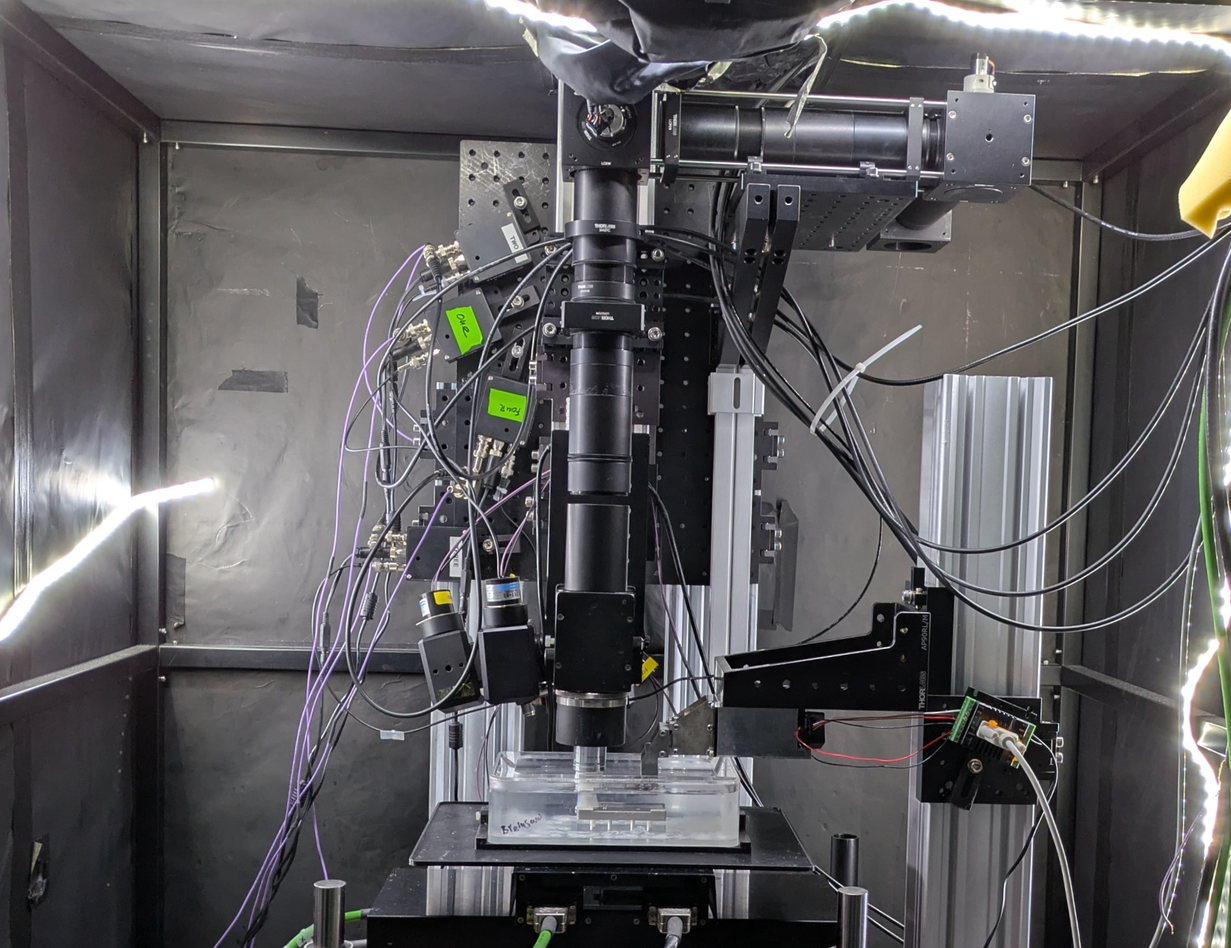
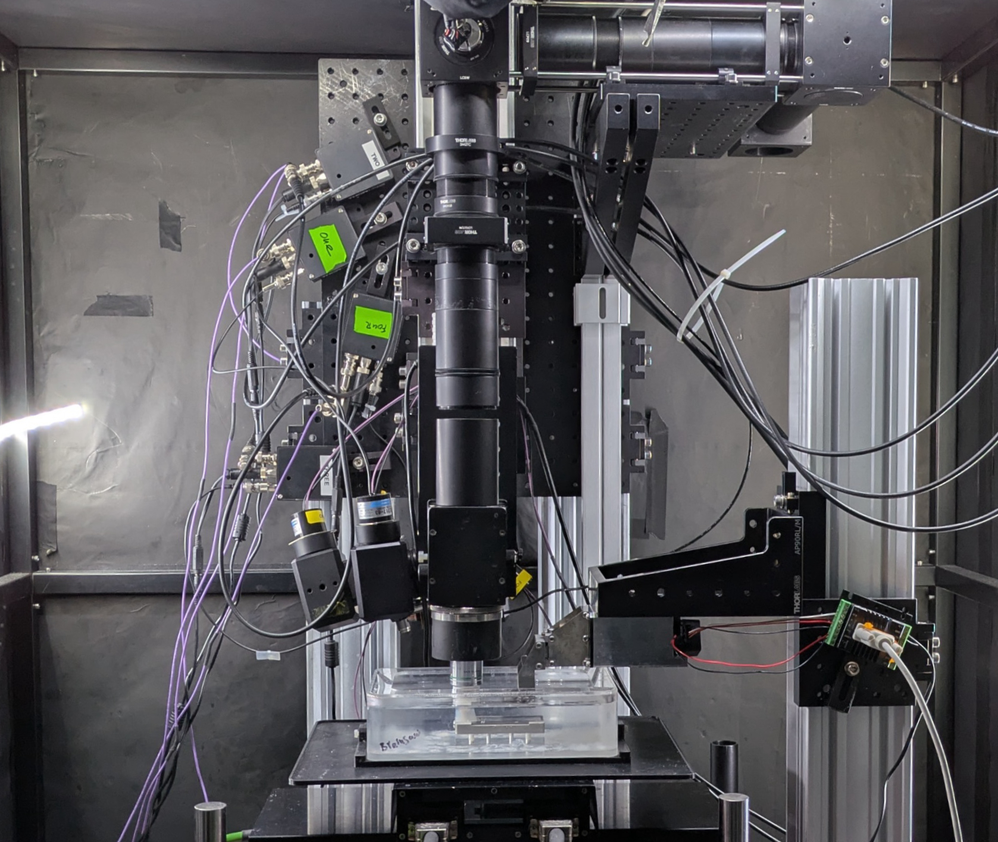
updates and corrections

diff --git a/whole_brain_platform.html b/whole_brain_platform.html
@@ -21,7 +21,7 @@ The MesoSPIM is most suitable for rapid imaging of individual samples that have 
   <img src="{{ '/assets/images/equipment/OG_System_Photo.jpg' | relative_url }}" alt="BrainSaw">
   <div class="feature-row__body">
     <h3>BrainSaw: automated serial-sectioning</h3>
-    <p>We have three BrainSaw automated serial section microscopes. These microscopes alternate between slicing the sample and tile-scanning the exposed surface of the block. Samples simply need conventional fixation and agar embedding. The approach is generally not compatible with antibody labelling, but slices can be retrieved for further processing.</p>
+    <p>We have three "BrainSaw" automated serial section 2-photon microscopes. These microscopes alternate between slicing the sample and tile-scanning the exposed surface of the block. Samples simply need conventional fixation and agar embedding. The approach is generally not compatible with antibody labelling, but slices can be retrieved for further processing.</p>
     <p>Applications include mapping electrode tracks, tracing bulk projections, and automated cell counting. The systems have up to four channels and handle up to three fluorophores simultaneously.</p>
     <a class="btn" href="{{ '/neurovision_details/' | relative_url }}">NeuroVision</a>
     <a class="btn" href="{{ '/brainsaw1_details/' | relative_url }}">BrainSaw OG</a>

diff --git a/neurovision_details.html b/neurovision_details.html
@@ -18,9 +18,10 @@ extra_css: /assets/css/docs-page.css
   </aside>
 
   <div class="docs-content">
-    <p>NeuroVision is a TissueCyte 1000 converted to BrainSaw running BakingTray.
-      The original sprawling open collection path was converted into a closed path with SiPM detectors.
-      It uses an 8 kHz resonant scanner, an upgrade Z lift stage, and upgraded vibratome.
+    <p>NeuroVision was a TissueCyte 1000 (TissueVision) serial section 2-photon that was converted to BakingTray in 2019.
+      Along with the change in acquisition software, the original open collection path was replaced with a more compact, closed, path.
+      Other upgrades included an 8 kHz resonant scanner, motorised coarse Z, and a Leica VT1000 vibratome.
+      The original lift stage and controller were eventually replaced with a more compact unit from Aerotech and, in 2026, NeuroVision's multi-alkali PMTs were upgraded to SiPM detectors. Like our other BrainSaw microscopes, NeuroVision's water bath clamps the slide in a consistent position across runs, simplifying setup.
     </p>
     <img src="{{ '/assets/images/serialsection/London_SWC_NeuroVision.jpg' | relative_url }}" width=80%/>
     <section>

diff --git a/organgrinder_details.html b/organgrinder_details.html
@@ -18,7 +18,7 @@ extra_css: /assets/css/docs-page.css
   </aside>
 
   <div class="docs-content">
-    <p>OrganGrinder is the SWC's most recent BrainSaw system. It features a scan-head built around parabolic scanners, 4 detector channels, and two laser  lines.
+    <p>OrganGrinder was built in 2021 and is the SWC's most recent BrainSaw serial section 2-photon microscope. It features a 4 kHz resonant scanner optically coupled to a galvo via two parabolic mirrors. It has 4 detector channels, and two laser lines.
     </p>
     <img src="{{ '/assets/images/serialsection/London_SWC_OrganGrinder.jpg' | relative_url }}" width=80%/>
 

diff --git a/brainsaw1_details.html b/brainsaw1_details.html
@@ -18,8 +18,8 @@ extra_css: /assets/css/docs-page.css
   </aside>
 
   <div class="docs-content">
-    <p>This was our first custom serial-section 2-photon microscope. It's the original BrainSaw!
-      It has an 8 kHz resonant scanner and 4 detector channels.
+    <p>BrainSaw was our first custom serial-section 2-photon microscope, built in 2016.
+      It has an 8 kHz resonant scanner and 4 detector channels. It's the original BrainSaw!
     </p>
     <img src="{{ '/assets/images/serialsection/London_SWC_BrainSaw.jpg' | relative_url }}" width=80%/>
 
